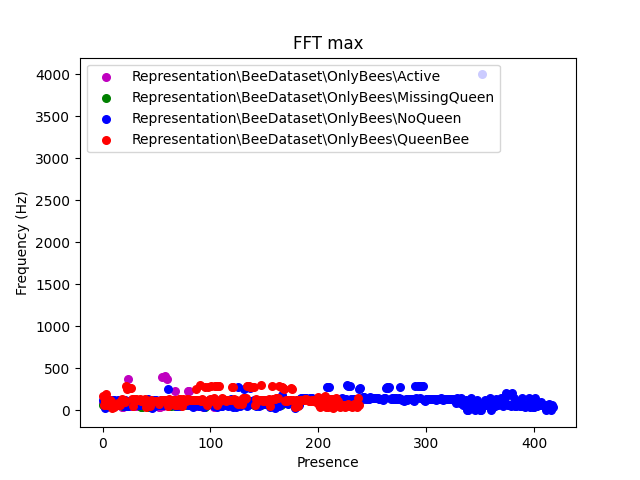
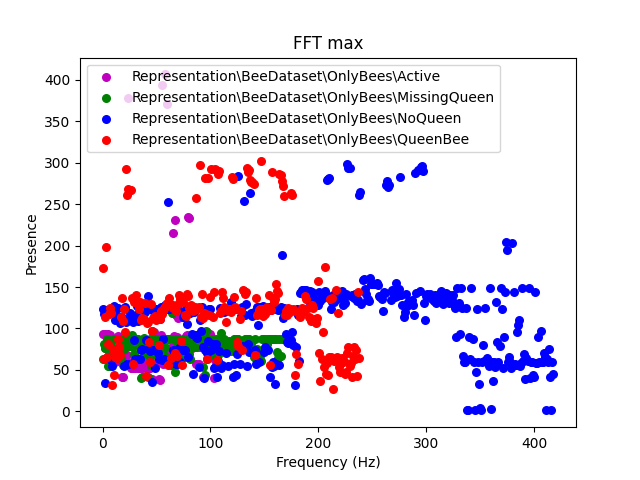
Fonction pour FFT plus propre

diff --git a/Representation/FFTRepresentation/FFTBees.py b/Representation/FFTRepresentation/FFTBees.py
@@ -4,16 +4,9 @@ import librosa as rosa
 import os
 import statistics as stat
 from scipy import signal
+import random as rd
 
-PATH = 'Representation\BeeDataset\OnlyBees'
-
-PATHS = [PATH + "\\Active", PATH + "\\MissingQueen", PATH + "\\NoQueen", PATH + "\\QueenBee"]
-
-colors = ["m",
-          "g",
-          "b",
-          "r"]
-
+# Suppress all the freq at a notch_freq
 def notch_filter(y_pure, samp_freq, notch_freq) :
     # Create/view notch filter
     # Frequency to be removed from signal (Hz)
@@ -24,37 +17,34 @@ def notch_filter(y_pure, samp_freq, notch_freq) :
     y_notched = signal.filtfilt(b_notch, a_notch, y_pure)
     return y_notched
 
-for i in range(4):
+# Caculate the FFT of a wav file in a given path and filter out the some frequencies
+def calculFFTFiltered(PATH, freq_filter : list | int = None, maxFrequency : int = None, verbose = False) -> list :
     highest_frequencies = []
-    PATH = PATHS[i]
     FILE_NAMES = os.listdir(PATH)
     for FILE in FILE_NAMES:
-        print(FILE)
         FILE_NAME = PATH + '\\' + FILE
         # Load the audio file
         data, sample_rate = rosa.load(FILE_NAME)
 
         # Filtering the audio signal
-        CUT_OFF_FREQUENCY = 4000
-        FILTER_ORDER = 8
-        #sos = signal.butter(FILTER_ORDER, CUT_OFF_FREQUENCY, 'lp', fs=sample_rate, output='sos') # Window
-        #filtered = signal.sosfilt(sos, data) # Filter
-        #data = filtered
-        data = notch_filter(data, sample_rate, 150)
-        data = notch_filter(data, sample_rate, 100)
-        data = notch_filter(data, sample_rate, 50)
-        data = notch_filter(data, sample_rate, 49)
-        data = notch_filter(data, sample_rate, 25)
+        if maxFrequency != None :
+                CUT_OFF_FREQUENCY = maxFrequency
+                FILTER_ORDER = 8
+                sos = signal.butter(FILTER_ORDER, CUT_OFF_FREQUENCY, 'lp', fs=sample_rate, output='sos') # Window
+                filtered = signal.sosfilt(sos, data) # Filter
+                data = filtered
+        if freq_filter != None:
+            if isinstance(freq_filter, int) : 
+                data = notch_filter(data, sample_rate, freq_filter)
+            elif isinstance(freq_filter, list)  :
+                for freq in freq_filter :
+                    data = notch_filter(data, sample_rate, freq)
+            else :
+                raise Exception('freq filter must be an int or a list but is ' + str(type(freq_filter)) + ".")
 
         # Convert the audio data to mono if it has multiple channels
         if len(data.shape) > 1:
             data = data.sum(axis=1) / data.shape[1]
-
-        # Get the duration of the file
-        duration = len(data)
-
-        # Get a list with all the time stamps
-        time = range(duration)
 
         # Apply FFT to the audio data
         fft_data = np.fft.fft(data)
@@ -62,29 +52,42 @@ for i in range(4):
         # Calculate the magnitudes of the FFT coefficients
         magnitudes = np.abs(fft_data)
         magnitudes = magnitudes / max(magnitudes)
-        maxMagnitudes = np.argmax(magnitudes)
-        
 
         # Generate the corresponding frequencies for the FFT coefficients
         frequencies = np.fft.fftfreq(len(magnitudes), 1 / sample_rate)
         argmax = np.array(magnitudes).argmax()
         high_freq = abs(frequencies[argmax])
-        print(high_freq)
         highest_frequencies.append(high_freq)
+        if verbose :
+            if freq_filter != None:
+                print("For {Path} without {notch_freq}, we found the highest frequency at {highest_f}".format(Path = PATH, notch_freq = freq_filter, highest_f =high_freq))
+            else:
+                print("For {Path}, we found the highest frequency at {highest_f}".format(Path = PATH, highest_f =high_freq))
+    return highest_frequencies
 
-    x = np.arange(len(highest_frequencies))
-    y = highest_frequencies
-    print("moyenne : " +  str(stat.mean(highest_frequencies)))
-    plt.scatter(y, x, color = colors[i], marker = "o", s = 30, label=PATH)
+if __name__ == "__main__" :
+    PATH = 'Representation\BeeDataset\OnlyBees'
+    PATHS = [PATH + "\\Active", PATH + "\\MissingQueen", PATH + "\\NoQueen", PATH + "\\QueenBee"]
 
+    colors = ["m", "g", "b", "r"] 
+    for i in range(4):
+        PATH = PATHS[i]
+        highest_frequencies =  calculFFTFiltered(PATH, maxFrequency=4000, freq_filter=[150, 100, 50, 49, 25],  verbose=True)
+        x = np.arange(len(highest_frequencies))
+        y = highest_frequencies
+        print("moyenne : " +  str(stat.mean(highest_frequencies)))
+        plt.scatter(x=x, y=y, color = colors[i], marker = "o", s=30, label=PATH)
 
-# putting labels
-plt.xlabel('Frequency (Hz)')
-plt.ylabel('Presence')
-plt.title('FFT max')
-plt.legend(loc="upper left")
-#plt.xlim(0, len(highest_frequencies))
+    # putting labels
+    plt.xlabel('Frequency (Hz)')
+    plt.ylabel('Presence')
+    plt.title('FFT max')
+    plt.legend(loc="upper left")
+    #plt.xlim(0, len(highest_frequencies))
 
-# function to show plot
-plt.savefig(PATH + 'last_plot.png')
-plt.show()
+    # function to show plot
+    SAVED_FILENAME = 'last_plot.png'
+    plt.savefig(PATH + 'last_plot.png')
+    plt.show()
+
+    print('Don\'t forget to rename the scatter png named ' + SAVED_FILENAME)
